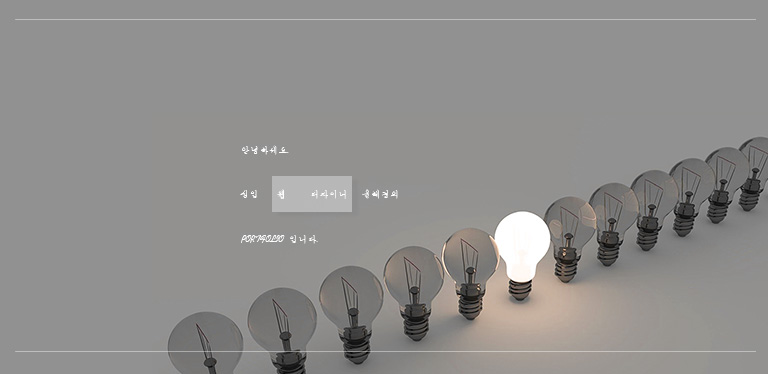
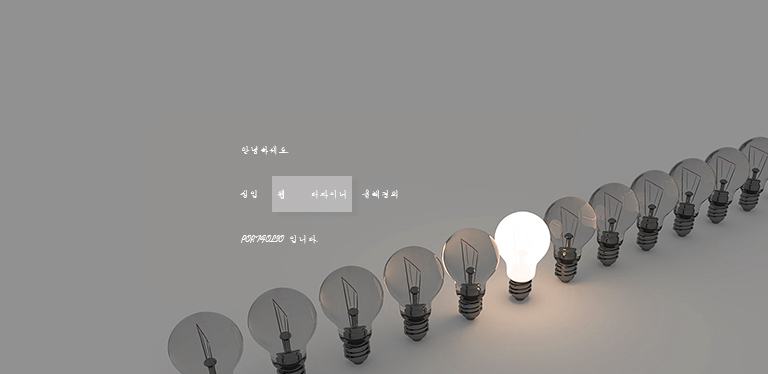
up

diff --git a/assets/css/style.css b/assets/css/style.css
@@ -641,7 +641,7 @@ input::-ms-input-placeholder {
 
 /*home section*/
 .home{width: 100%;height: auto;
-    background: url(../images/homebg.jpg) no-repeat 50% 50%;
+    background: url(../images/homebg.jpg) no-repeat 100% 100%;
 }
 
 .home .main_home{
@@ -1156,9 +1156,7 @@ button.btn-md:hover {
 }
 #portfoliowork {  
     margin: 1rem 0;
-    -webkit-column-count: 3; 
-    -moz-column-count: 3;
-    column-count: 3;
+    
     -webkit-column-gap: 1rem;
     -moz-column-gap: 1rem;
     column-gap: 1rem;
@@ -1187,6 +1185,8 @@ button.btn-md:hover {
 
 .single_portfolio{
     position: relative;
+    width: 33.3%;
+    float: left;
 
 }
 .single_portfolio:hover .grid_item_overlay{
